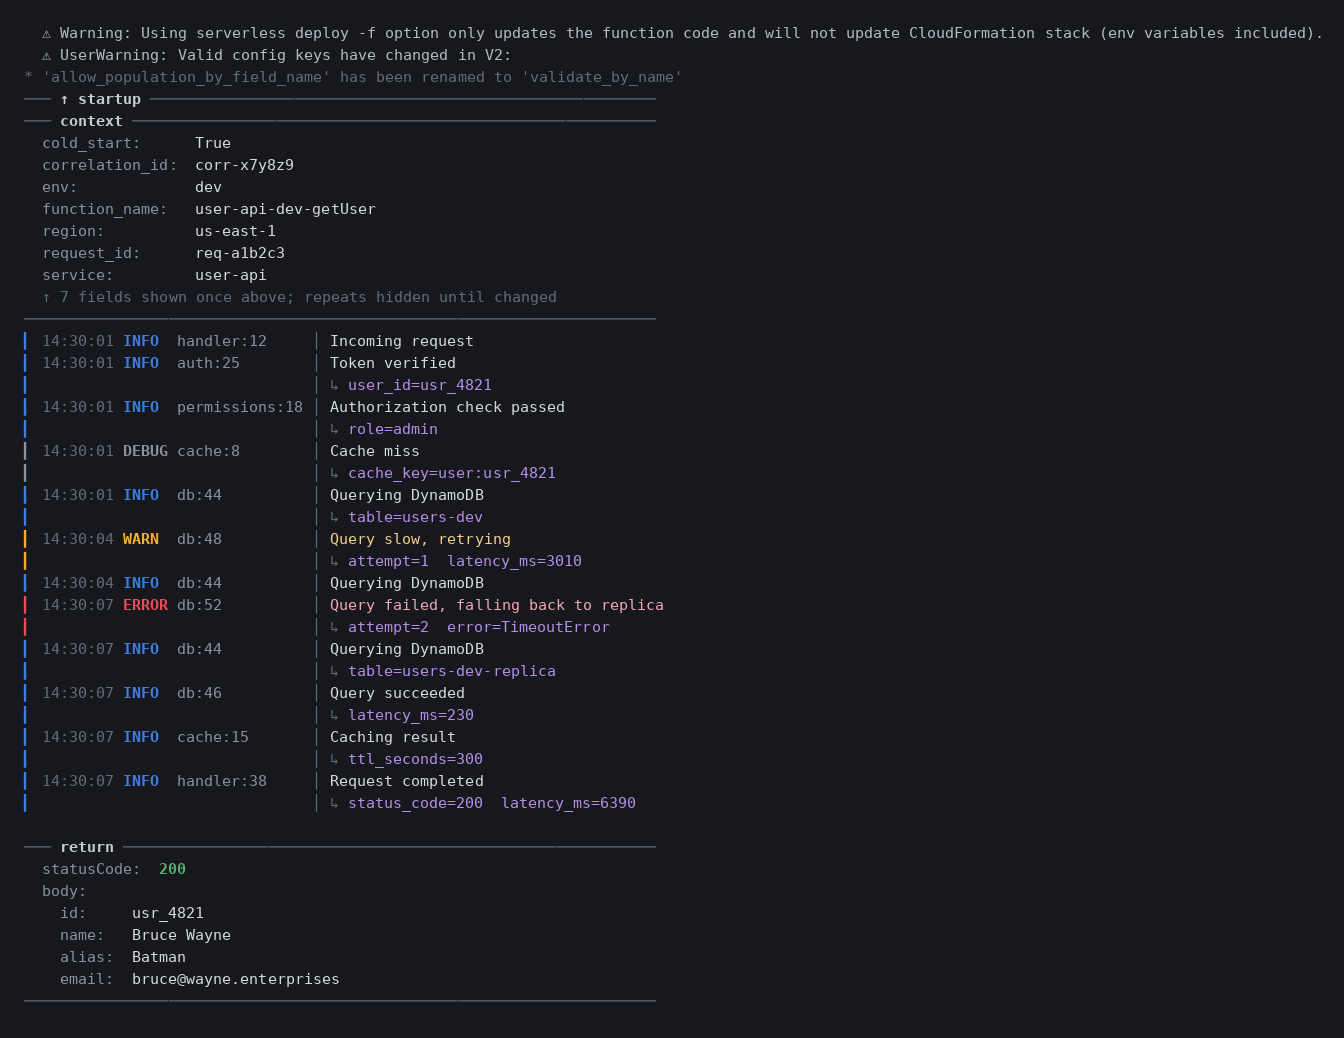
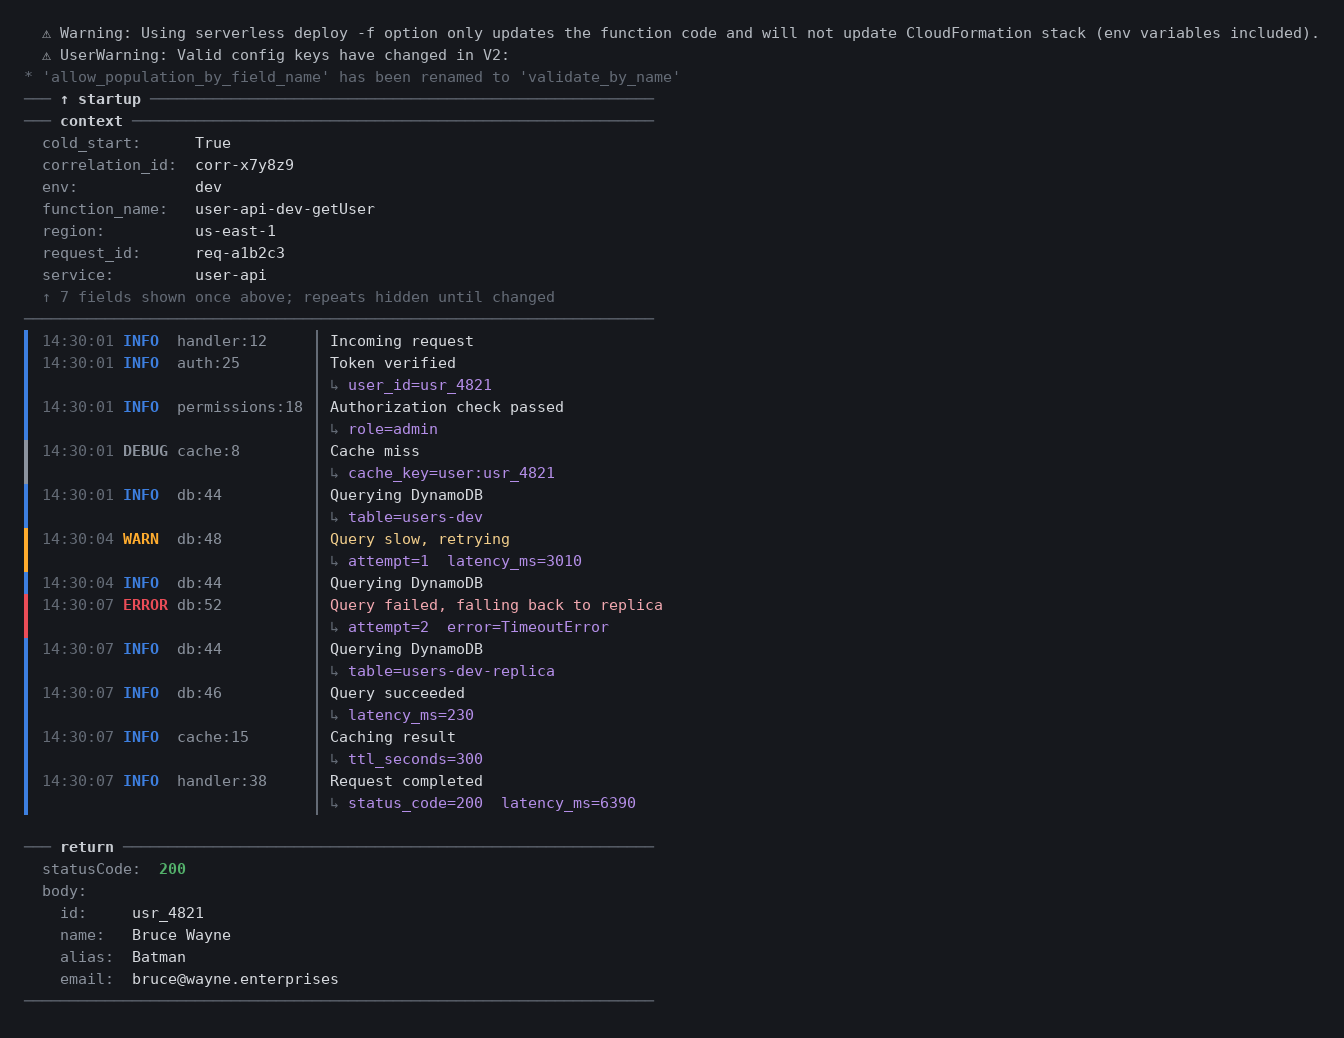
chore: v0.2.0 — lint cleanup, prog name, regenerated screenshot
- Remove leftover unused variable, ambiguous names, unused import (ruff clean)
- argparse prog name so 'python -m clogs --version' says clogs
- Regenerate examples/after.png with continuous edge bars

https://claude.ai/code/session_01MgMZvBpttCRAZhsHRhNtBA

diff --git a/clogs/cli.py b/clogs/cli.py
@@ -140,8 +140,6 @@ def run(
 
     try:
         for line in stdin:
-            stripped = line.strip()
-
             if ctx.buffering_json:
                 # Keep indentation so a non-JSON fallback prints faithfully.
                 if ctx.append_json_line(line.rstrip()):
@@ -236,6 +234,7 @@ def run(
 def main() -> None:
     """Run the CLI."""
     parser = argparse.ArgumentParser(
+        prog="clogs",
         description="Colorized, condensed log formatting for Lambda and Python logs",
     )
     parser.add_argument(

diff --git a/tests/test_cli.py b/tests/test_cli.py
@@ -381,7 +381,7 @@ class TestLevelRendering:
         output = _strip_ansi(_run_clogs("\n".join(lines), context_size=0))
         assert "CRIT " in output
         assert "CRITICAL" not in output
-        crit_line, error_line = [l for l in output.split("\n") if "│" in l]
+        crit_line, error_line = [ln for ln in output.split("\n") if "│" in ln]
         assert crit_line.index("│") == error_line.index("│")
 
 

diff --git a/tests/test_formatter.py b/tests/test_formatter.py
@@ -1,5 +1,4 @@
 """Tests for formatting functions."""
-import json
 import re
 
 import pytest
@@ -294,7 +293,7 @@ class TestReturnValue:
 
     def test_header_and_footer_same_width(self):
         result = _strip_ansi(format_return_value({"statusCode": 200}))
-        lines = [l for l in result.split("\n") if l]
+        lines = [ln for ln in result.split("\n") if ln]
         assert len(lines[0]) == len(lines[-1])
 
 

diff --git a/clogs/__init__.py b/clogs/__init__.py
@@ -1,3 +1,3 @@
 """clogs — colorized, condensed log formatting for AWS Lambda, Powertools, and Python logs."""
 
-__version__ = "0.1.0"
+__version__ = "0.2.0"
